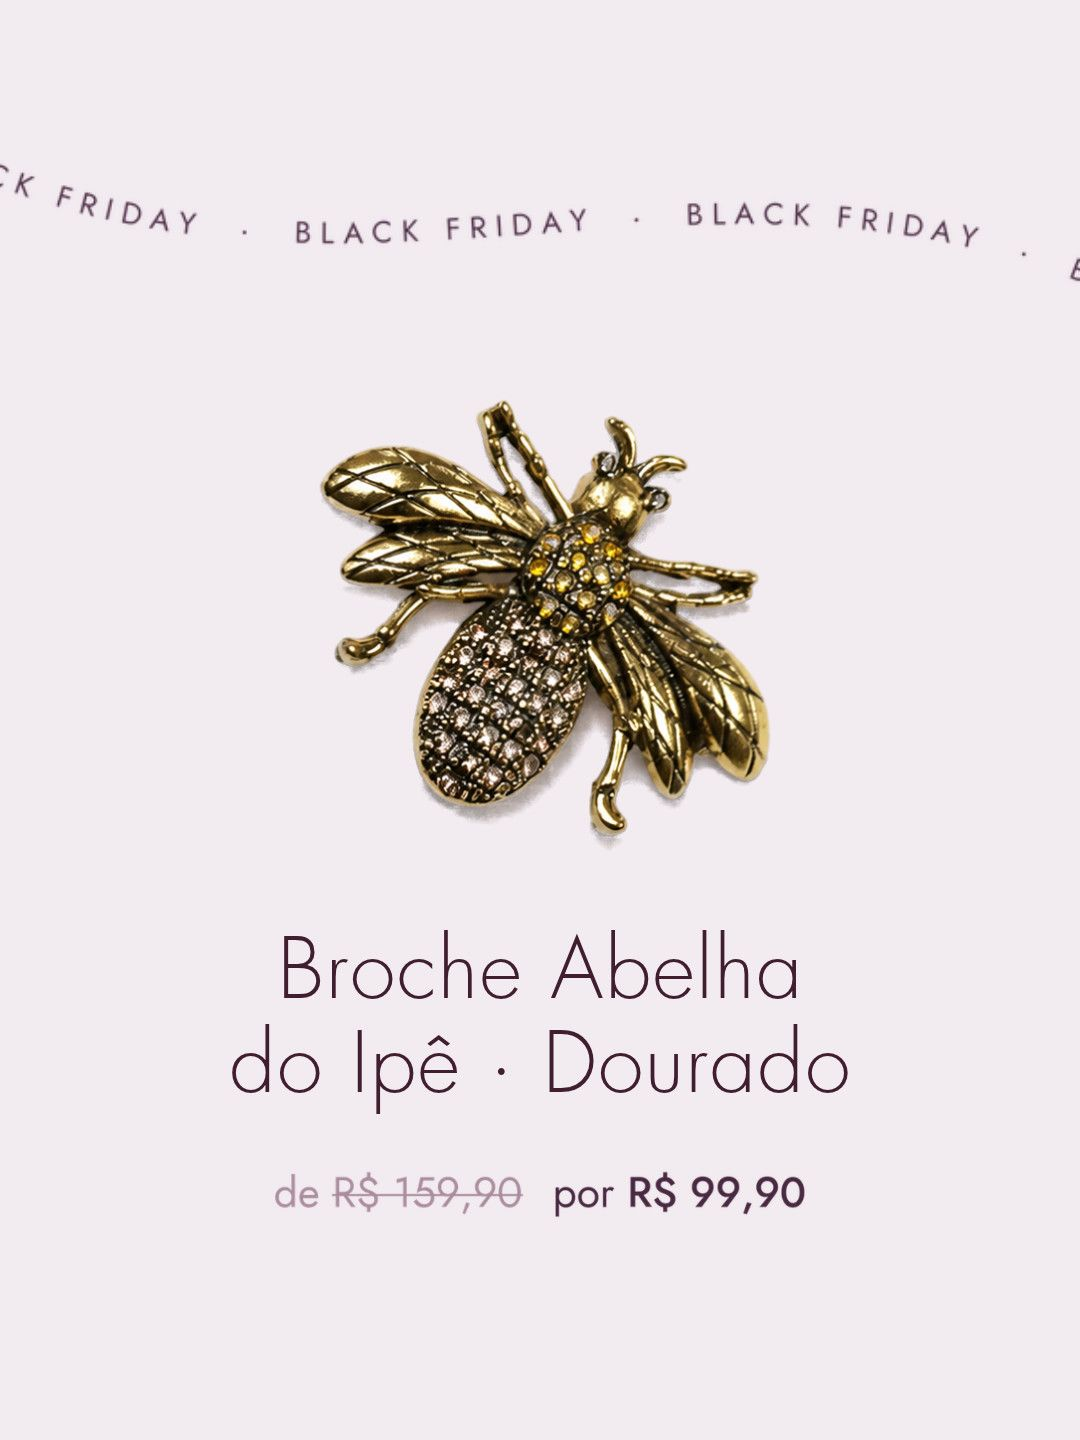
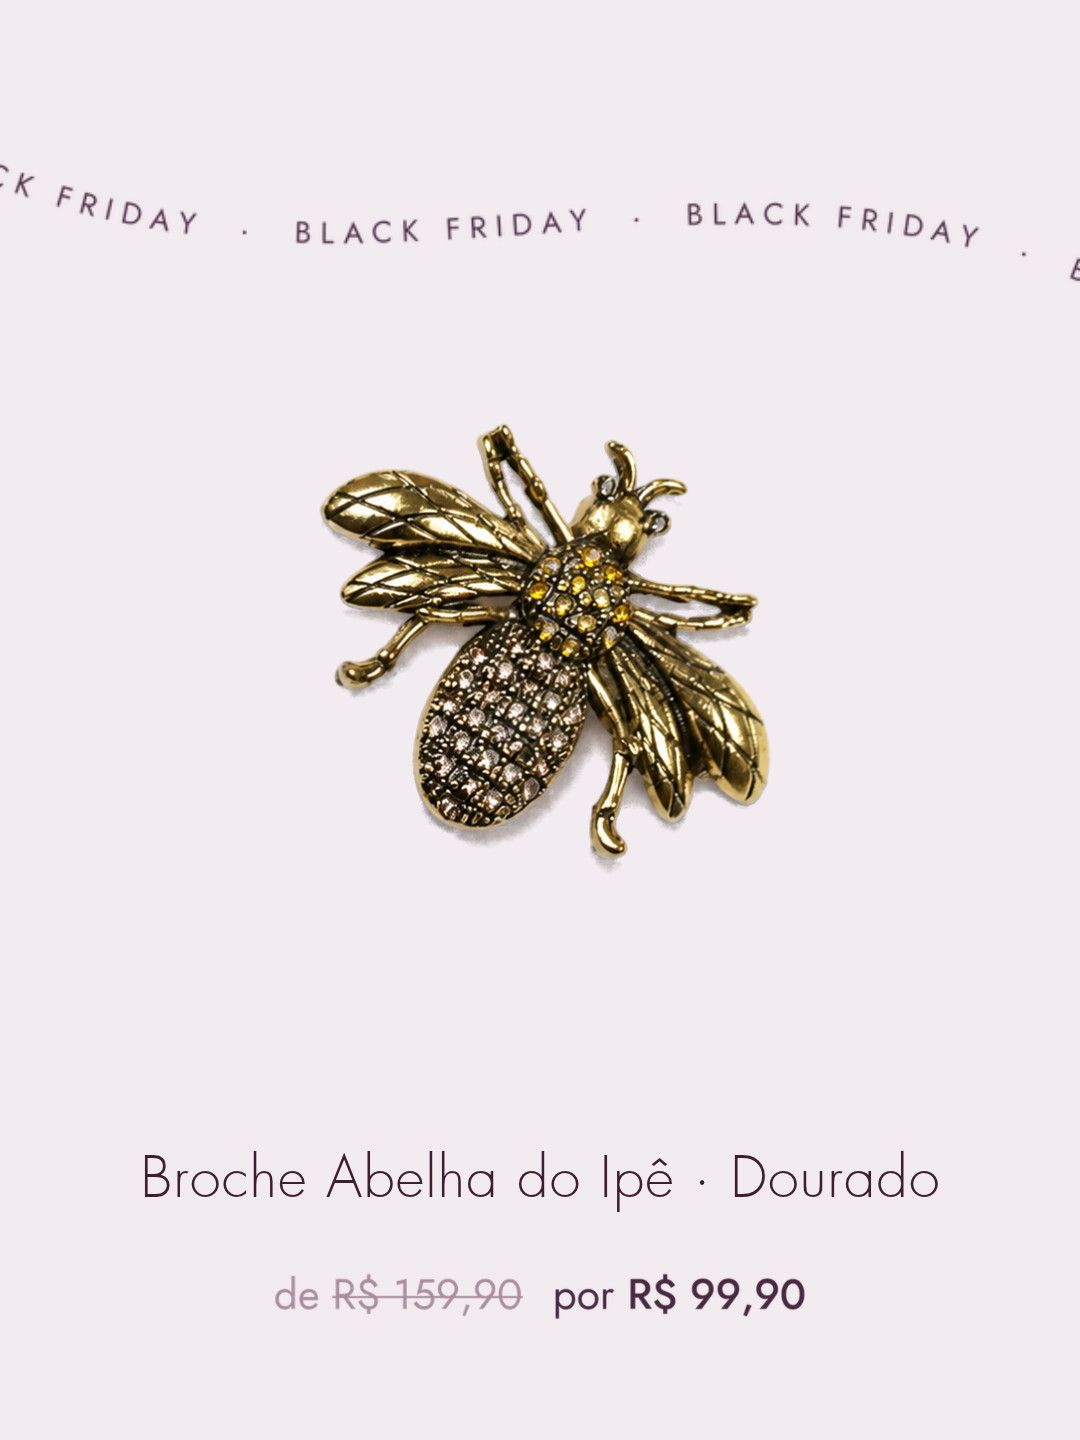
Aprovação Ipê: broches alinhados
Claude-Session: https://claude.ai/code/session_015euoKZ9BazZFzvmzWMYP3z

diff --git a/aprovacao/ipeacessorios/index.html b/aprovacao/ipeacessorios/index.html
@@ -118,7 +118,7 @@ const pad = (x) => String(x).padStart(2, "0");
 const lista = document.getElementById("lista");
 PECAS.forEach((p, i) => {
   const id = i + 1;
-  const imgs = Array.from({ length: p.n }, (_, k) => `<img src="img/${pad(id)}-${k + 1}.jpg?v=8" alt="${p.t}, imagem ${k + 1}" loading="${i < 2 ? "eager" : "lazy"}">`).join("");
+  const imgs = Array.from({ length: p.n }, (_, k) => `<img src="img/${pad(id)}-${k + 1}.jpg?v=9" alt="${p.t}, imagem ${k + 1}" loading="${i < 2 ? "eager" : "lazy"}">`).join("");
   const el = document.createElement("article");
   el.className = "peca"; el.id = "p" + id;
   el.innerHTML = `
